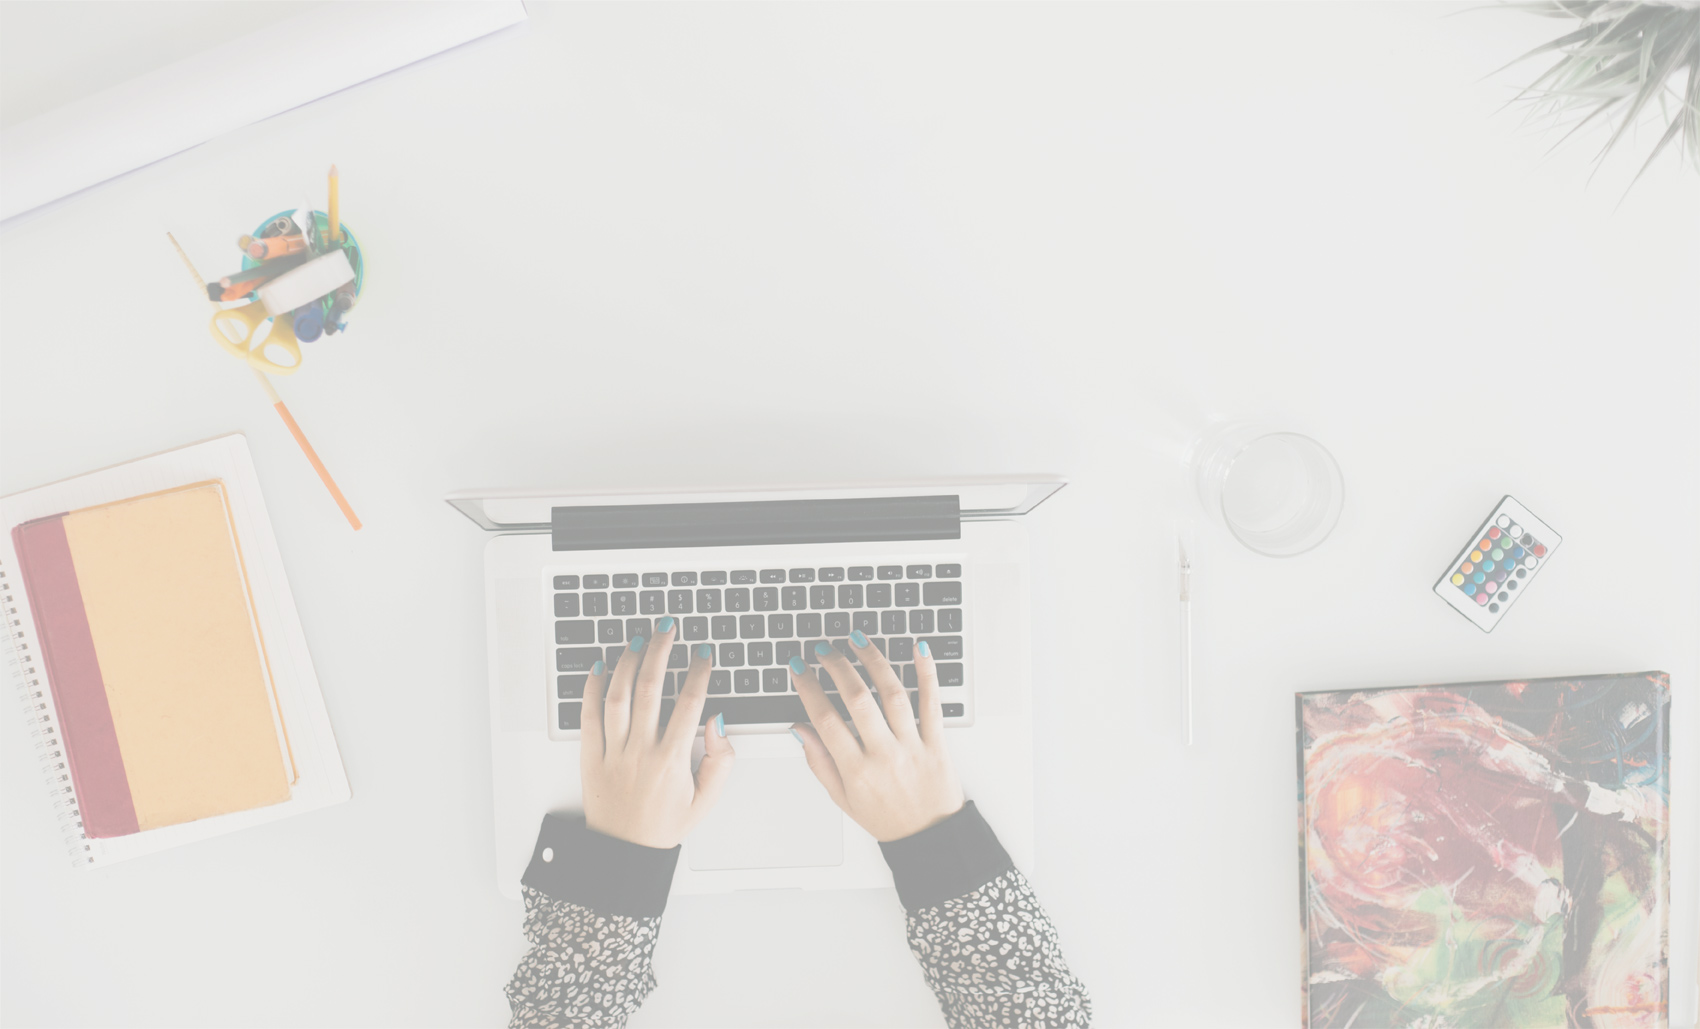
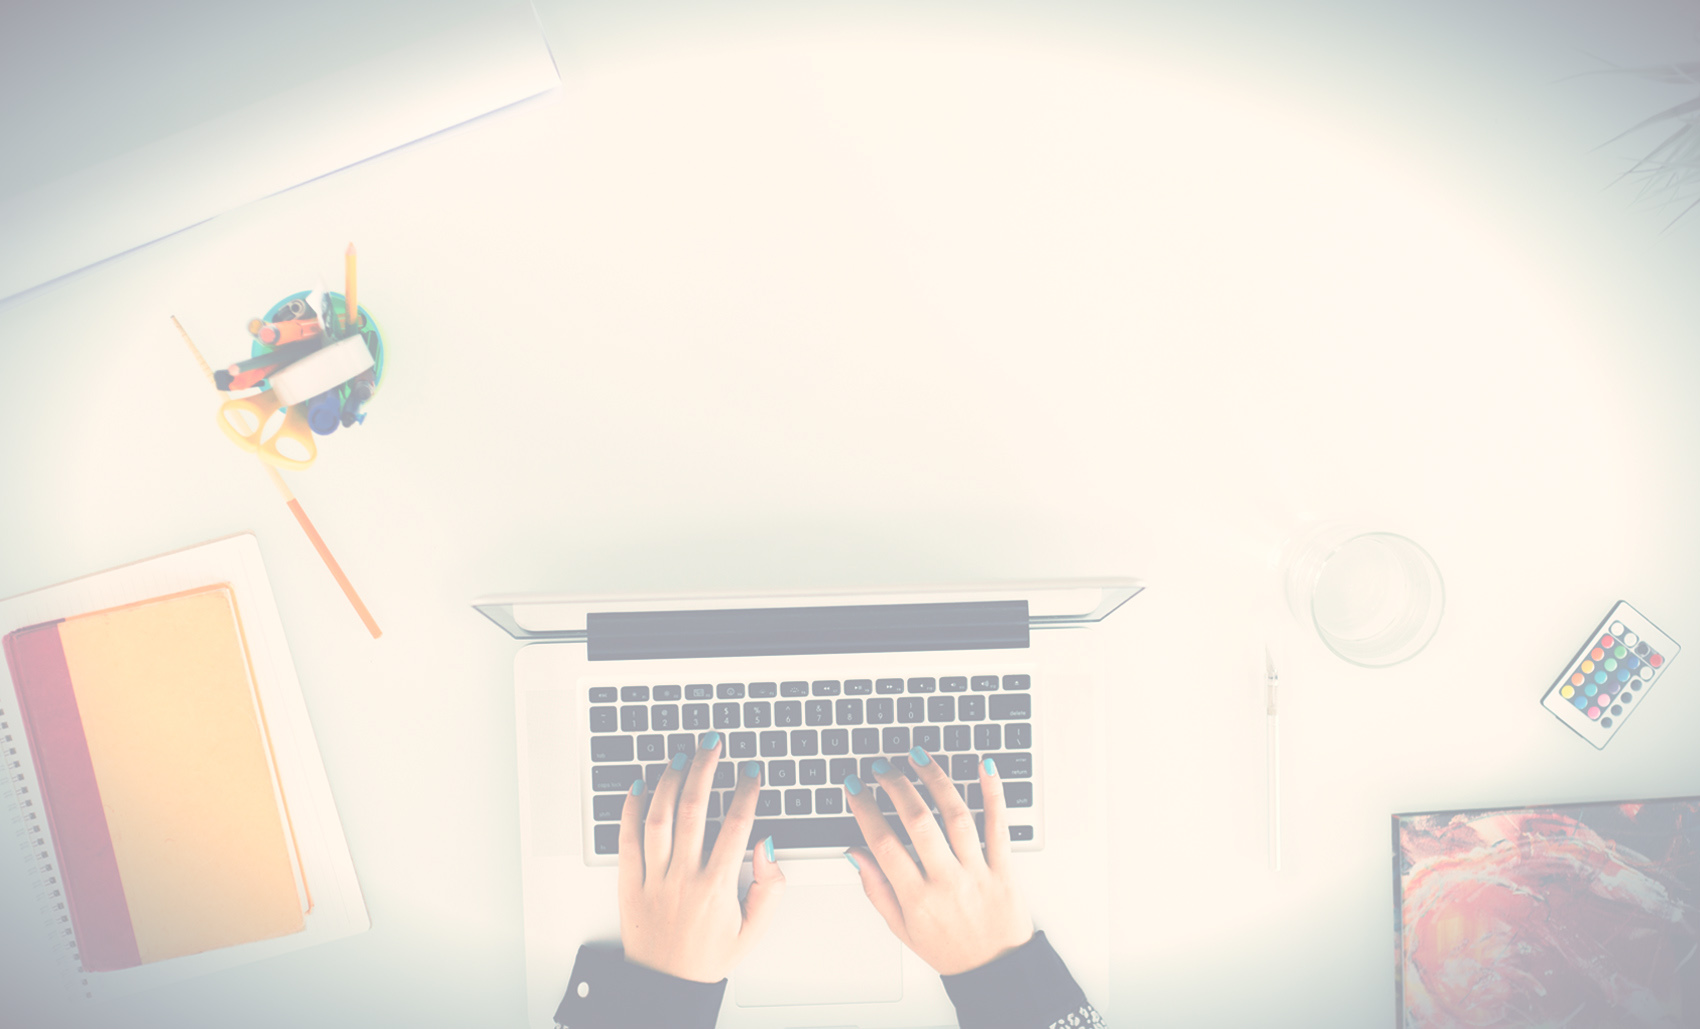
fixed: mobile

diff --git a/public/styles/encore.css b/public/styles/encore.css
@@ -340,7 +340,7 @@ header.fixed #logo{height:60px;}
 #cover{
   height:450px;
   padding:150px 0 100px;
-  background:url('/images/cover.jpg') no-repeat center;
+  background:url('/images/cover.jpg') no-repeat top center;
   background-size:cover;
 }
 #cover-center{
@@ -372,6 +372,7 @@ header.fixed #logo{height:60px;}
   #cover{
     height: inherit;
     padding:20% 0  10%;
+    background-size:auto 150%;
   }
   #cover-center{
     width: 100%;
@@ -496,6 +497,9 @@ header.fixed #logo{height:60px;}
   .expertise-box-content{
     height: inherit;
   }
+  .expertise-box-icon{
+    height: 100px;
+  }
 }
 /**
 * how encore works
@@ -603,6 +607,21 @@ header.fixed #logo{height:60px;}
 @media handheld, screen and (max-width:960px){
   #email-function{
     padding: 10% 0;
+    position: relative;
+  }
+  #email-function:before{
+    content:'';
+    position: absolute;
+    top:0;
+    bottom: 0;
+    left: 0;
+    right: 0;
+    z-index: -1;
+    background:url('/images/gmail-screenshot.png') no-repeat top center;
+    background-size: cover;
+  }
+  #email-background{
+    display: none;
   }
 }
 
@@ -820,11 +839,22 @@ header.fixed #logo{height:60px;}
   .people-saying-box{
     width: 100%;
     display: block; 
+    height: auto;
+    padding-bottom: 100px;
   }
   .people-saying-box-author{
     font-size:80%;
     background-size: auto 60px;
   }
+  #people-saying-headline{width: 100%;}
+  #people-saying-media{width: 100%;}
+  #people-saying-media > a{
+    height: 60px;
+    background-size:87% auto;
+  }
+  #people-saying-media-wbj{width:30%;}
+  #people-saying-media-wp{width:30%;}
+  #people-saying-media-tc{width:30%;}
 }
 /*
 * 
@@ -927,6 +957,9 @@ header.fixed #logo{height:60px;}
 @media handheld, screen and (max-width:960px){
   #why-encore{
     padding: 10% 0;
+  }
+  #why-encore-logo{
+    margin-bottom: 5%;
   }
   .why-encore-item{
     display: block;
@@ -1037,4 +1070,4 @@ footer a {
 }
 #footer-link-twitter{background-image: url('/images/footer-twitter.png')}
 #footer-link-facebook{background-image: url('/images/footer-fb.png')}
-#footer-link-blog{background-image: url('/images/footer-email.png')}
+#footer-link-blog{background-image: url('/images/blog.png')}

diff --git a/public/scripts/encore.js b/public/scripts/encore.js
@@ -147,11 +147,11 @@ $(function (){
       $('.funnel-result.alert-2').animate({left:-150,top:130});
       $('.funnel-result.alert-3').animate({left:70,top:130}).promise().done(notifyAnimationEnd);
     });
-    $('.funnel-money').animate({height:40 : 50}).promise().done(function (){
-      $('.funnel-money:eq(0)').animate({left:-140 : -200,top:170});
-      $('.funnel-money:eq(1)').animate({left:-60 :-100,top:260});
-      $('.funnel-money:eq(2)').animate({left:34 : 74,top:260});
-      $('.funnel-money:eq(3)').animate({left:114: 174,top:170});
+    $('.funnel-money').animate({height:50}).promise().done(function (){
+      $('.funnel-money:eq(0)').animate({left:-200,top:170});
+      $('.funnel-money:eq(1)').animate({left:-100,top:260});
+      $('.funnel-money:eq(2)').animate({left:74,top:260});
+      $('.funnel-money:eq(3)').animate({left:174,top:170});
     });
   }
   
